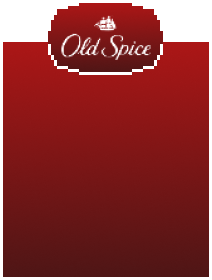
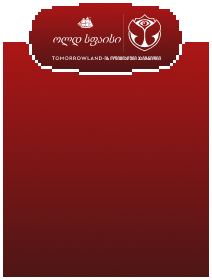
v6

Changed region(s): [[0.1132, 0.0, 0.8774, 0.2571]]

diff --git a/style.css b/style.css
@@ -17,9 +17,13 @@ body {
     touch-action: manipulation;
 }
 
-.container, canvas {
+.container {
+    display: flex;
+    flex-direction: column; /* Элементы располагаются вертикально */
+    align-items: center; /* Выравнивание элементов по центру горизонтально */
+    justify-content: center; /* Выравнивание по центру вертикально */
     width: 100%;
-    height: auto;
+    height: 100vh; /* Занимает полную высоту видимой области */
     position: relative;
     overflow: hidden;
     touch-action: manipulation;
@@ -35,6 +39,25 @@ canvas {
 }
 */
 
+#header {
+    display: flex;
+    width: 100%;
+    justify-content: space-between;
+    padding: 10px;
+    box-sizing: border-box;
+    align-items: center;
+}
+
+#logo {
+    height: 5vh; /* Высота логотипа */
+}
+
+#exitButton {
+    padding: 5px 10px;
+    cursor: pointer;
+}
+
+
 canvas {
     width: auto;
     height: 70vh; /* или ваше предпочтительное значение */
@@ -47,15 +70,47 @@ canvas {
     margin: auto; /* центрирование по горизонтали */
 }
 
+#controllerContainer {
+    display: flex;
+    justify-content: space-around;
+    width: 100%;
+}
+
+#leftButton, #rightButton {
+    width: 15vh;
+    height: 15vh;
+    font-size: 2vh;
+    border: none;
+    background-color: #c5c5c5;
+    opacity: 1;
+    background: url("./assets/button.png");
+    background-size: contain;
+    background-repeat: no-repeat;
+    background-position: center;
+    -webkit-user-select: none; /* Safari и Chrome, включая Android */
+    -moz-user-select: none; /* Firefox */
+    -ms-user-select: none; /* Internet Explorer/Edge */
+    user-select: none;
+}
+
+#leftButton {
+    transform: scaleX(-1);
+}
+
 
 @media (orientation: landscape) {
+    .container {
+        flex-direction: row; /* Горизонтальное расположение элементов */
+        justify-content: space-around; /* Распределение элементов по горизонтали */
+    }
+
     canvas {
         height: 100vh;
         width: auto; /* Adjust width for centering */
         margin: auto; /* Centers the canvas horizontally */
     }
 
-    #leftButton, #rightButton {
+    #controllerContainer, #leftButton, #rightButton {
         visibility: hidden;
     }
 }
@@ -63,7 +118,7 @@ canvas {
 #scoreBoard {
     color: white;
     position: absolute;
-    top: 10px;
+    top: 10vh;
     left: 50%;
     transform: translateX(-50%);
     z-index: 1;
@@ -131,38 +186,6 @@ h3 a {color: #5a5816}
 .button:hover, #playButton:hover, #resetButton:hover {
     background-color: white;
     color: black;
-}
-
-#leftButton, #rightButton {
-    position: fixed;
-    bottom: 10vh;
-    width: 15vh;
-    height: 15vh;
-    font-size: 2vh;
-    border: none;
-    background-color: #c5c5c5;
-    opacity: 1;
-    -webkit-user-select: none; /* Safari и Chrome, включая Android */
-    -moz-user-select: none; /* Firefox */
-    -ms-user-select: none; /* Internet Explorer/Edge */
-    user-select: none;
-}
-
-#leftButton {
-    left: 5vh;
-    background: url("./assets/button.png");
-    background-size: contain;
-    background-repeat: no-repeat;
-    background-position: center;
-    transform: scaleX(-1);
-}
-
-#rightButton {
-    right: 5vh;
-    background: url("./assets/button.png");
-    background-size: contain;
-    background-repeat: no-repeat;
-    background-position: center;
 }
 
 .popup-container {

diff --git a/index.html b/index.html
@@ -12,12 +12,20 @@
   </head>
   <body>
     <div class="container">
+      <div id="header">
+        <img src="./assets/logo_old.png" id="logo" alt="Logo">
+        <button id="exitButton">Exit</button>
+      </div>
+    
       <canvas id="canvas">
         Aww, your browser doesn't support HTML5!
       </canvas>
-      <button id="leftButton"></button>
-      <button id="rightButton"></button>
-
+    
+      <div id="controllerContainer">
+        <button id="leftButton"></button>
+        <button id="rightButton"></button>
+      </div>
+    
       <div id="mainMenu" class="popup-container">
         <div class="popup">
           <h1>INSTRUCTION</h1>
@@ -25,7 +33,7 @@
           <button id="playButton" href="javascript:init()">Play</button>
         </div>
       </div> 
-
+    
       <div id="gameOverMenu" class="popup-container">
         <div class="popup">
           <h1>GAME OVER</h1>
@@ -33,17 +41,14 @@
           <a id="resetButton" href="javascript:reset()">Restart</a>
         </div>
       </div>
-
-      <!-- Preloading image -->
-      <img id="sprite" src="./assets/spritesheet_4x_3.png"/>
- 
+    
+      <img id="sprite" src="./assets/spritesheet_4x_3.png" style="display: none;"/>
+    
       <div id="scoreBoard">
         <div id="scoreIcon"></div>
         <p id="score">0</p>
       </div>
-
     </div>
-
     <script src="main.js">    </script>
   </body>
 </html>
